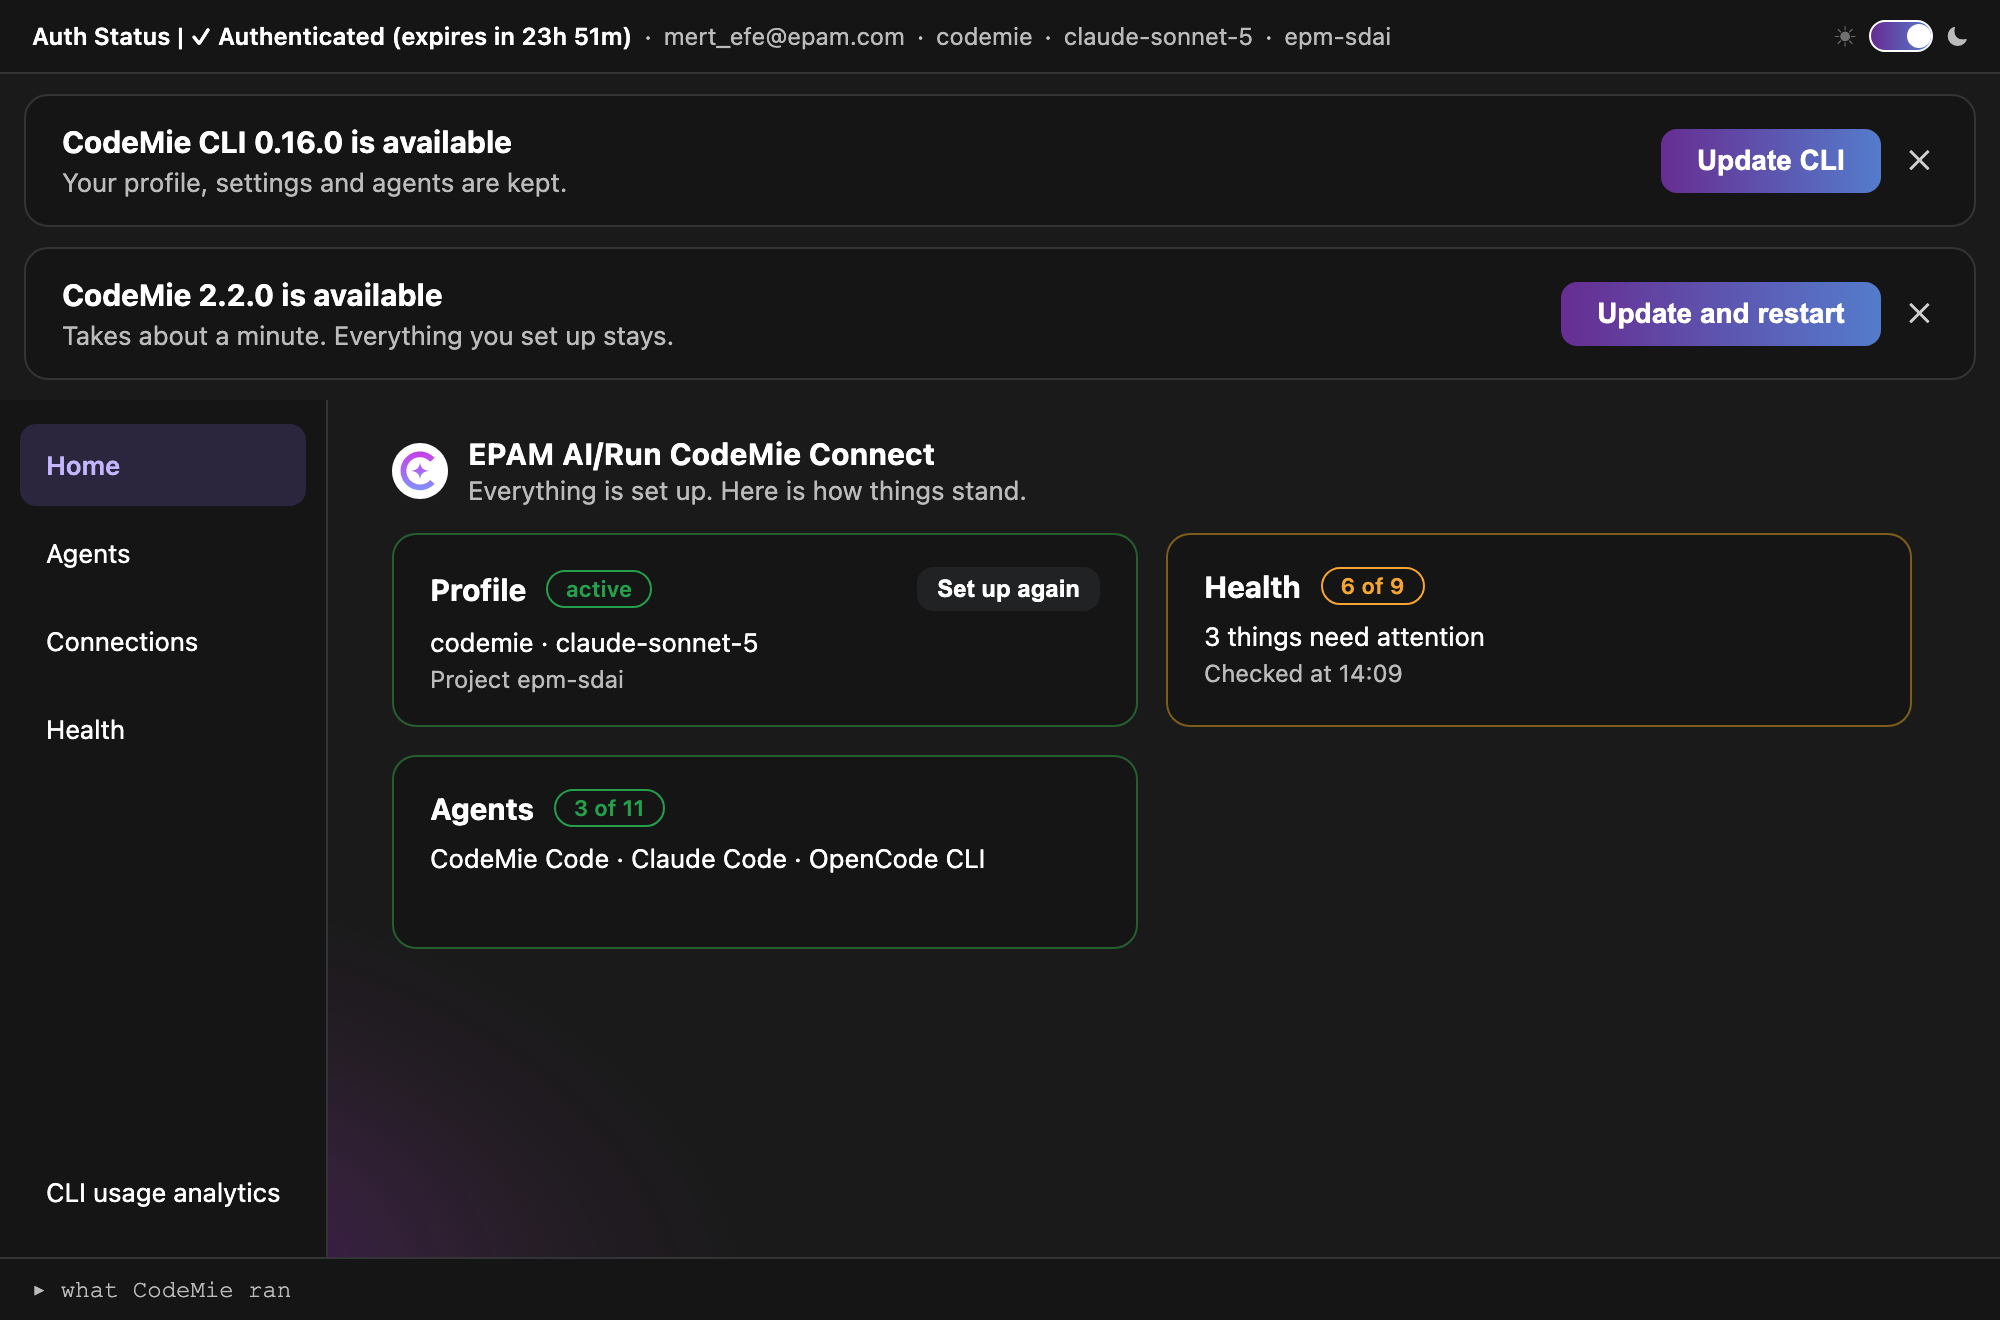
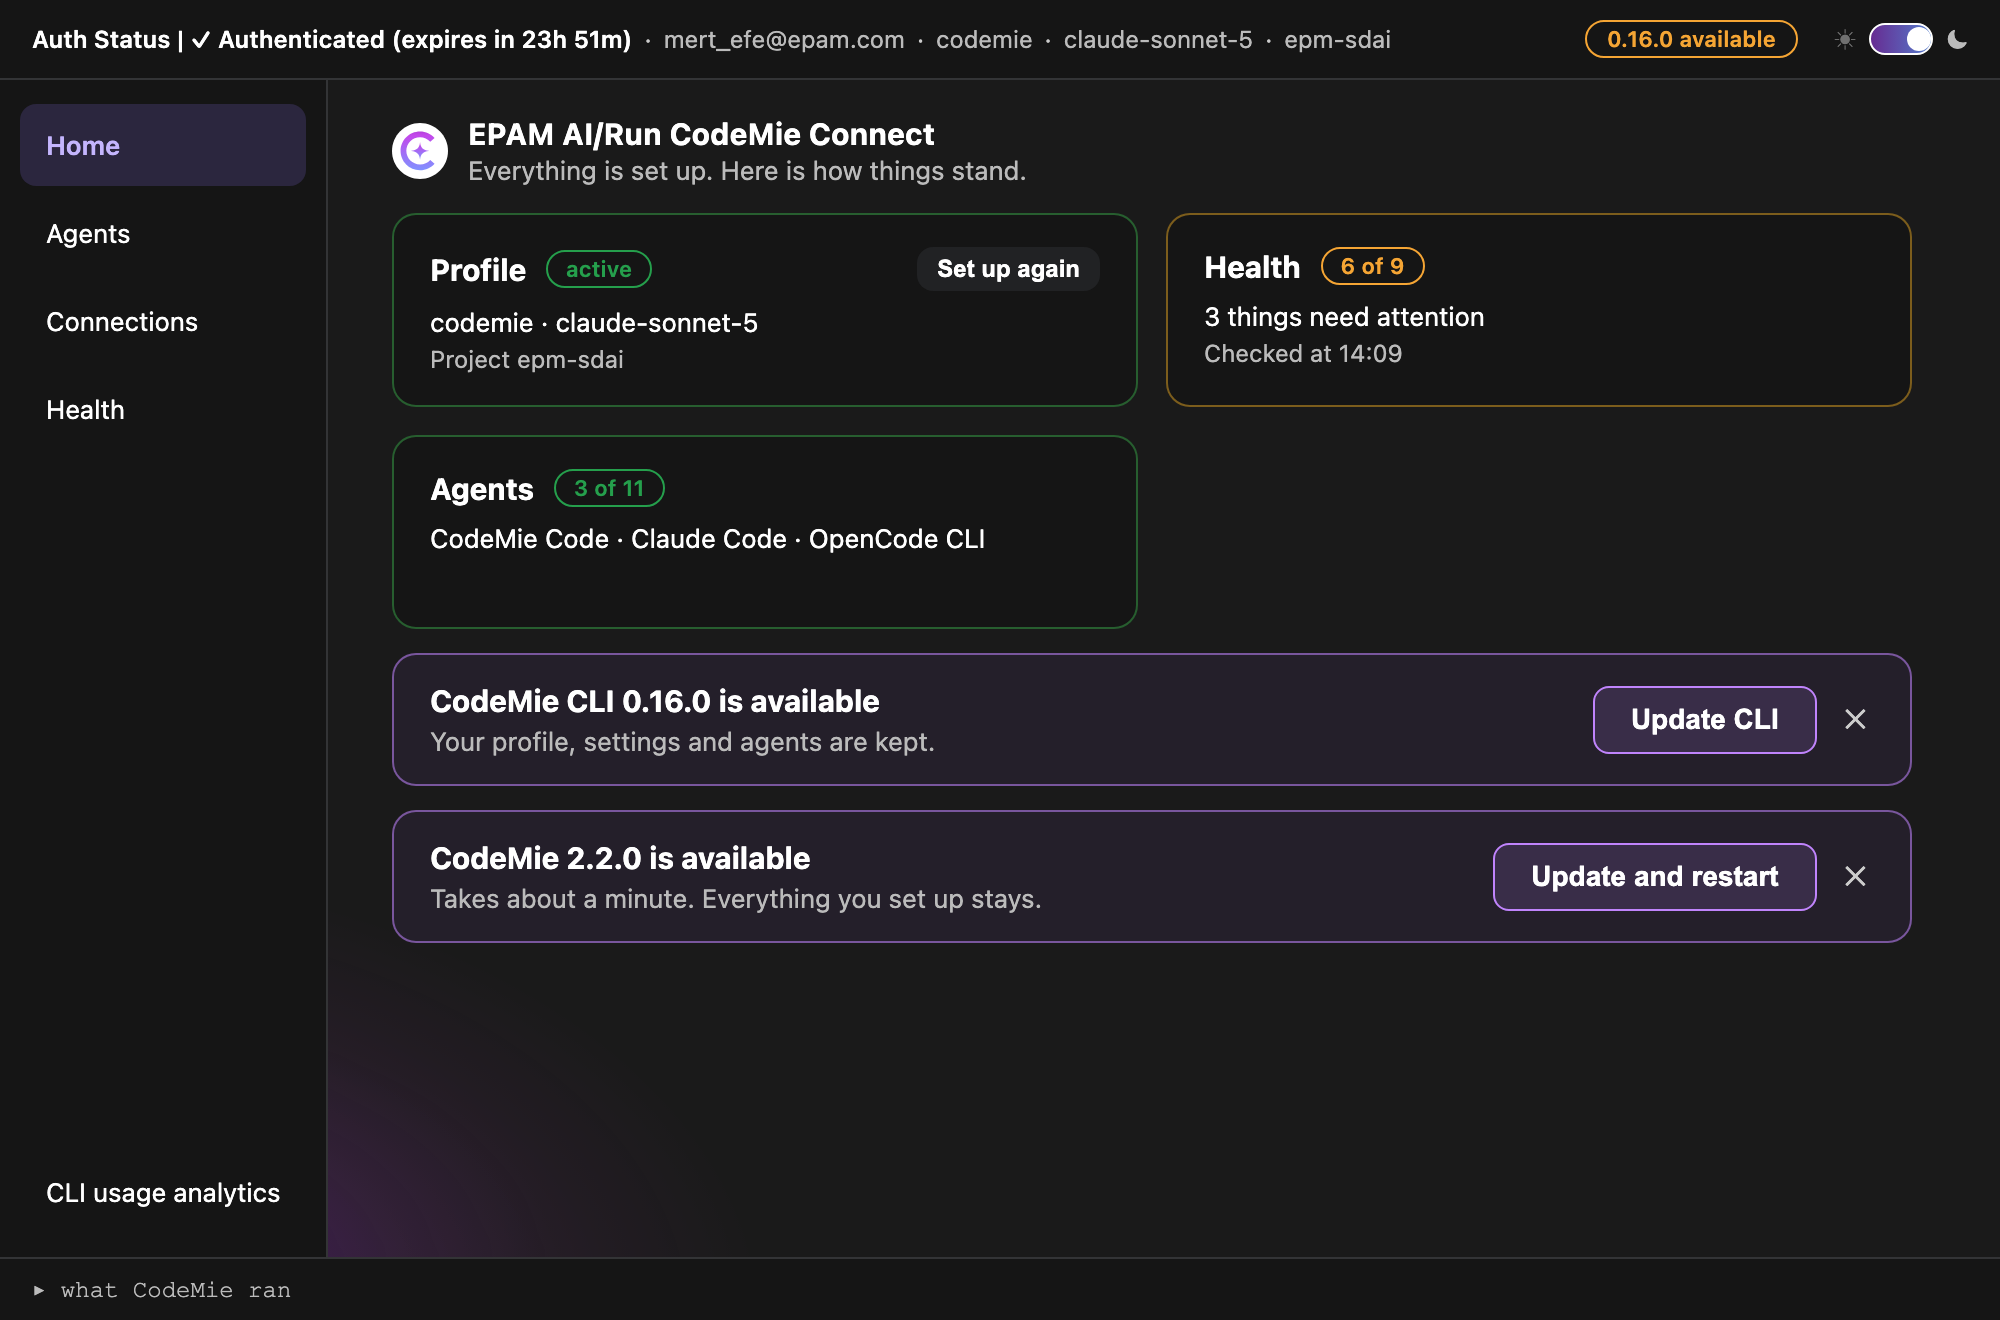
EPMCDME-15189 : show updates as cards under Home's status cards
As 01-home.png draws them, instead of bars across the top of the window.
The version badge in the identity bar stays.

diff --git a/ui/index.html b/ui/index.html
@@ -31,30 +31,6 @@
         </label>
       </div>
 
-      <!-- ============ UPDATE BANNER ============ -->
-      <div id="update-banner" class="top-banner hidden">
-        <div class="top-banner-body">
-          <div class="top-banner-title">CodeMie CLI <span id="update-to"></span> is available</div>
-          <div class="top-banner-line">Your profile, settings and agents are kept.</div>
-        </div>
-        <div class="top-banner-actions">
-          <button id="update-banner-run" class="btn btn-accent top-banner-action">Update CLI</button>
-          <button id="update-banner-dismiss" class="top-banner-dismiss" aria-label="Dismiss">✕</button>
-        </div>
-      </div>
-
-      <!-- ============ APP UPDATE BANNER ============ -->
-      <div id="app-update-banner" class="top-banner hidden">
-        <div class="top-banner-body">
-          <div class="top-banner-title">CodeMie <span id="app-update-to"></span> is available</div>
-          <div class="top-banner-line">Takes about a minute. Everything you set up stays.</div>
-        </div>
-        <div class="top-banner-actions">
-          <button id="app-update-banner-run" class="btn btn-accent top-banner-action">Update and restart</button>
-          <button id="app-update-banner-dismiss" class="top-banner-dismiss" aria-label="Dismiss">✕</button>
-        </div>
-      </div>
-
       <!-- ============ SHELL BODY: sidebar column + view column ============ -->
       <div id="shell-body">
 
@@ -101,6 +77,34 @@
 
         <!-- Home body: the onboarding checklist, then the status cards (ui/home-view.js). -->
         <div id="home-body"></div>
+
+        <!-- Updates are cards under the status cards, as 01-home.png draws them.
+             The identity bar's version badge stays up top. -->
+        <div id="home-updates">
+          <!-- ============ UPDATE BANNER ============ -->
+          <div id="update-banner" class="top-banner hidden">
+            <div class="top-banner-body">
+              <div class="top-banner-title">CodeMie CLI <span id="update-to"></span> is available</div>
+              <div class="top-banner-line">Your profile, settings and agents are kept.</div>
+            </div>
+            <div class="top-banner-actions">
+              <button id="update-banner-run" class="btn btn-accent top-banner-action">Update CLI</button>
+              <button id="update-banner-dismiss" class="top-banner-dismiss" aria-label="Dismiss">✕</button>
+            </div>
+          </div>
+
+          <!-- ============ APP UPDATE BANNER ============ -->
+          <div id="app-update-banner" class="top-banner hidden">
+            <div class="top-banner-body">
+              <div class="top-banner-title">CodeMie <span id="app-update-to"></span> is available</div>
+              <div class="top-banner-line">Takes about a minute. Everything you set up stays.</div>
+            </div>
+            <div class="top-banner-actions">
+              <button id="app-update-banner-run" class="btn btn-accent top-banner-action">Update and restart</button>
+              <button id="app-update-banner-dismiss" class="top-banner-dismiss" aria-label="Dismiss">✕</button>
+            </div>
+          </div>
+        </div>
       </div>
 
       <!-- ============ WIZARD (install flow) ============ -->

diff --git a/ui/styles.css b/ui/styles.css
@@ -253,7 +253,7 @@ body::before {
 
 /* ---- Installation group ---- */
 /* ---- Home body (ui/home-view.js): checklist, then status cards ---- */
-#home-body { flex: 1; min-height: 0; overflow-y: auto; }
+#home-body { flex: 0 1 auto; min-height: 0; overflow-y: auto; }
 .home-check { max-width: 720px; }
 .home-check-title { font-size: 18px; font-weight: 700; color: var(--text); margin: 0 0 4px; }
 .home-check-sub { font-size: 13px; color: var(--muted); margin-bottom: 14px; }
@@ -369,19 +369,25 @@ body::before {
   justify-content: space-between;
   gap: 16px;
   padding: 14px 18px;
-  margin: 10px 12px 0;
-  background: var(--surface);
-  border: 1px solid var(--border-2);
+  margin-top: 12px;
+  background: color-mix(in srgb, var(--violet) 9%, var(--surface));
+  border: 1px solid color-mix(in srgb, var(--violet) 55%, transparent);
   border-radius: var(--radius-xl);
 }
-/* Space under whichever banner is the last one showing. */
-#app-update-banner:not(.hidden),
-#update-banner:not(.hidden):has(+ #app-update-banner.hidden) { margin-bottom: 10px; }
+/* Under the status cards, as wide as they are (01-home.png). */
+#home-updates { max-width: 760px; flex: none; }
 .top-banner-body { flex: 1 1 auto; min-width: 0; }
 .top-banner-title { font-size: 15px; font-weight: 700; color: var(--text); }
 .top-banner-line { font-size: 13px; color: var(--muted); margin-top: 4px; }
 .top-banner-actions { display: flex; align-items: center; gap: 10px; flex: none; }
-.top-banner .btn.top-banner-action { width: auto; padding: 8px 18px; }
+.top-banner .btn.top-banner-action {
+  width: auto;
+  padding: 8px 18px;
+  background: color-mix(in srgb, var(--violet) 14%, transparent);
+  border: 1px solid var(--violet);
+  color: var(--text);
+}
+.top-banner .btn.top-banner-action:hover:not(:disabled) { background: color-mix(in srgb, var(--violet) 26%, transparent); filter: none; }
 .top-banner-dismiss {
   background: none;
   border: none;
